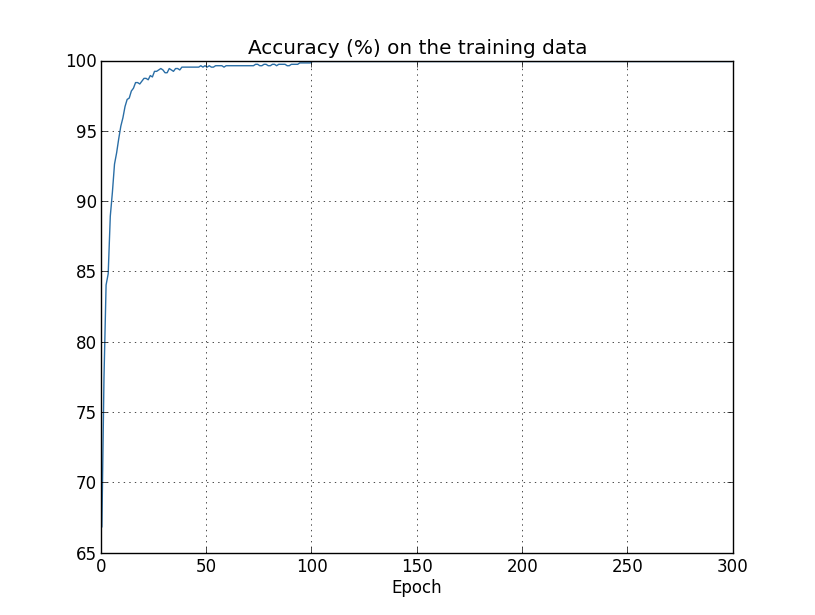
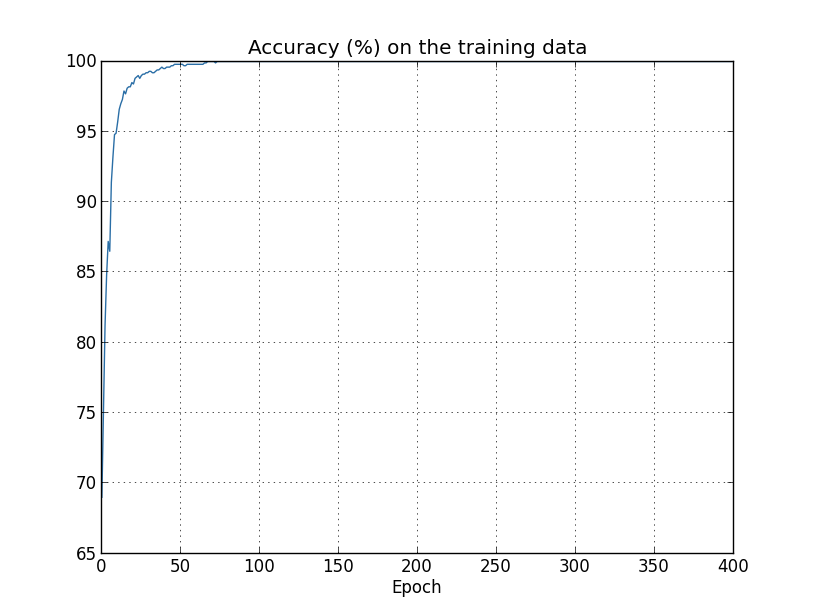
Redid the overfitting results with parameters that actually match what's in the text

diff --git a/fig/overfitting.py b/fig/overfitting.py
@@ -21,8 +21,8 @@ import numpy as np
 
 
 def main(filename, num_epochs,
-         training_cost_xmin=150, 
-         test_accuracy_xmin=150, 
+         training_cost_xmin=200, 
+         test_accuracy_xmin=200, 
          test_cost_xmin=0, 
          training_accuracy_xmin=0,
          training_set_size=1000, 
@@ -67,8 +67,8 @@ def run_network(filename, num_epochs, training_set_size=1000, lmbda=0.0):
     f.close()
 
 def make_plots(filename, num_epochs, 
-               training_cost_xmin=150, 
-               test_accuracy_xmin=150, 
+               training_cost_xmin=200, 
+               test_accuracy_xmin=200, 
                test_cost_xmin=0, 
                training_accuracy_xmin=0,
                training_set_size=1000):
@@ -163,9 +163,9 @@ if __name__ == "__main__":
     num_epochs = int(raw_input(
         "Enter the number of epochs to run for: "))
     training_cost_xmin = int(raw_input(
-        "training_cost_xmin (suggest 150): "))
+        "training_cost_xmin (suggest 200): "))
     test_accuracy_xmin = int(raw_input(
-        "test_accuracy_xmin (suggest 150): "))
+        "test_accuracy_xmin (suggest 200): "))
     test_cost_xmin = int(raw_input(
         "test_cost_xmin (suggest 0): "))
     training_accuracy_xmin = int(raw_input(
